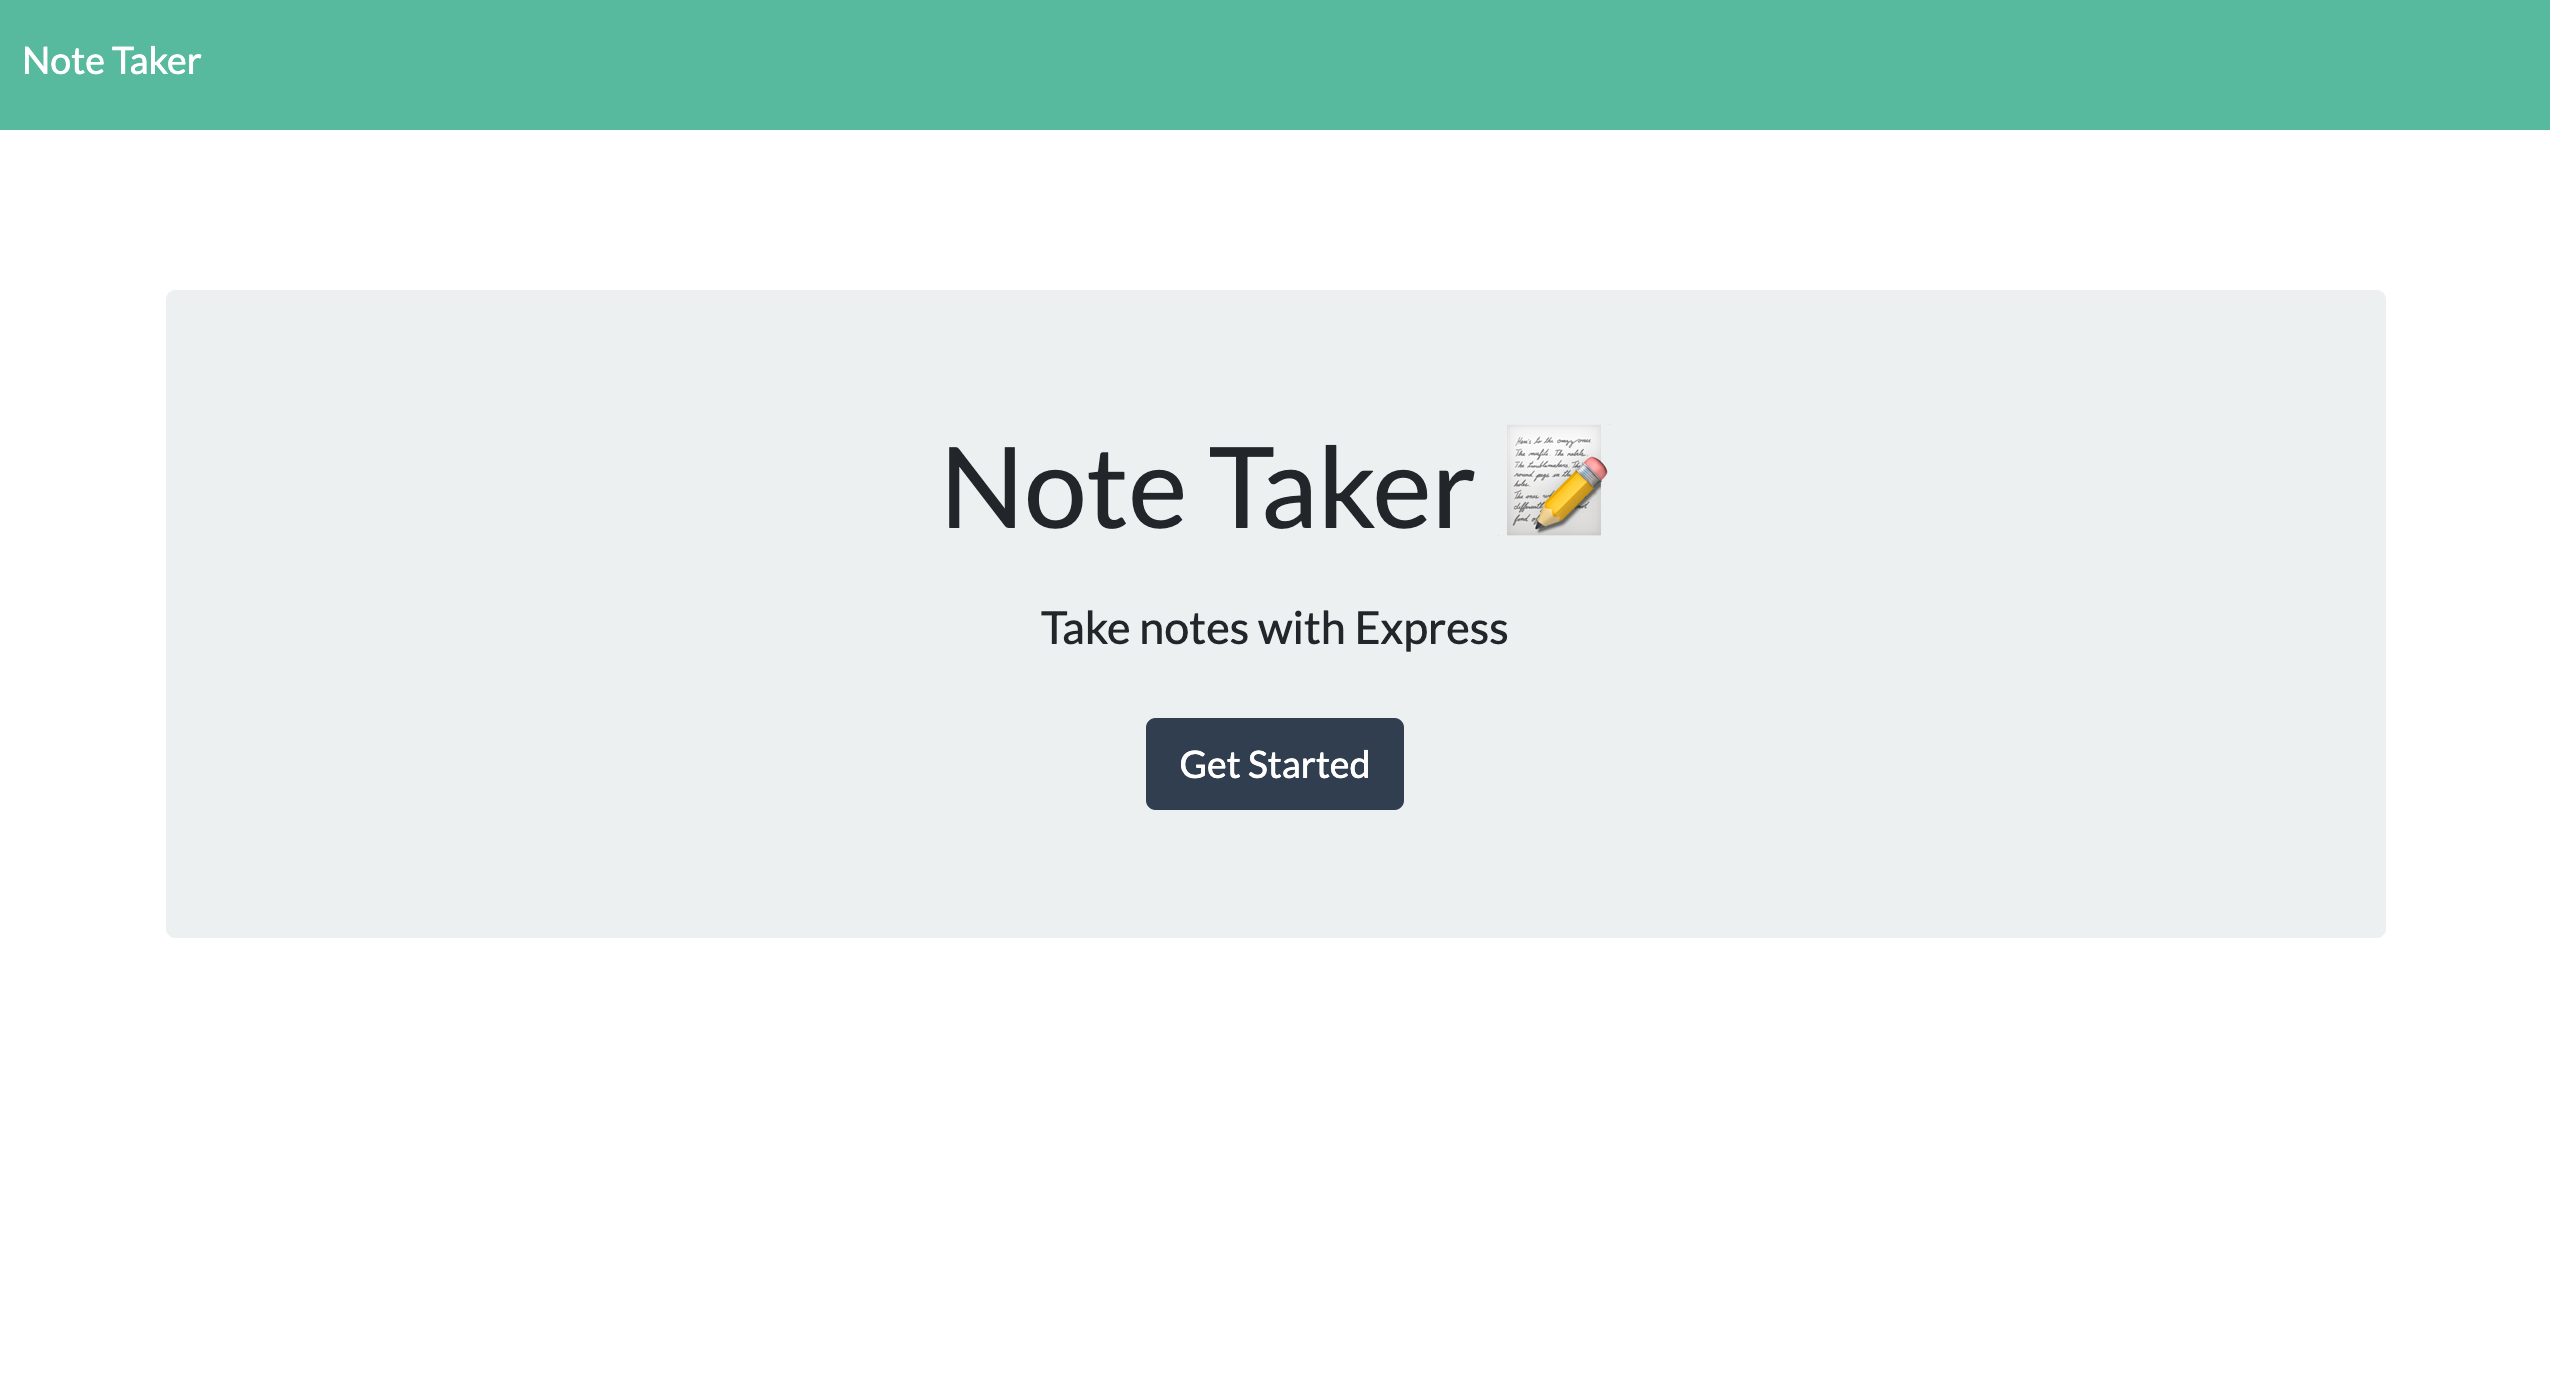
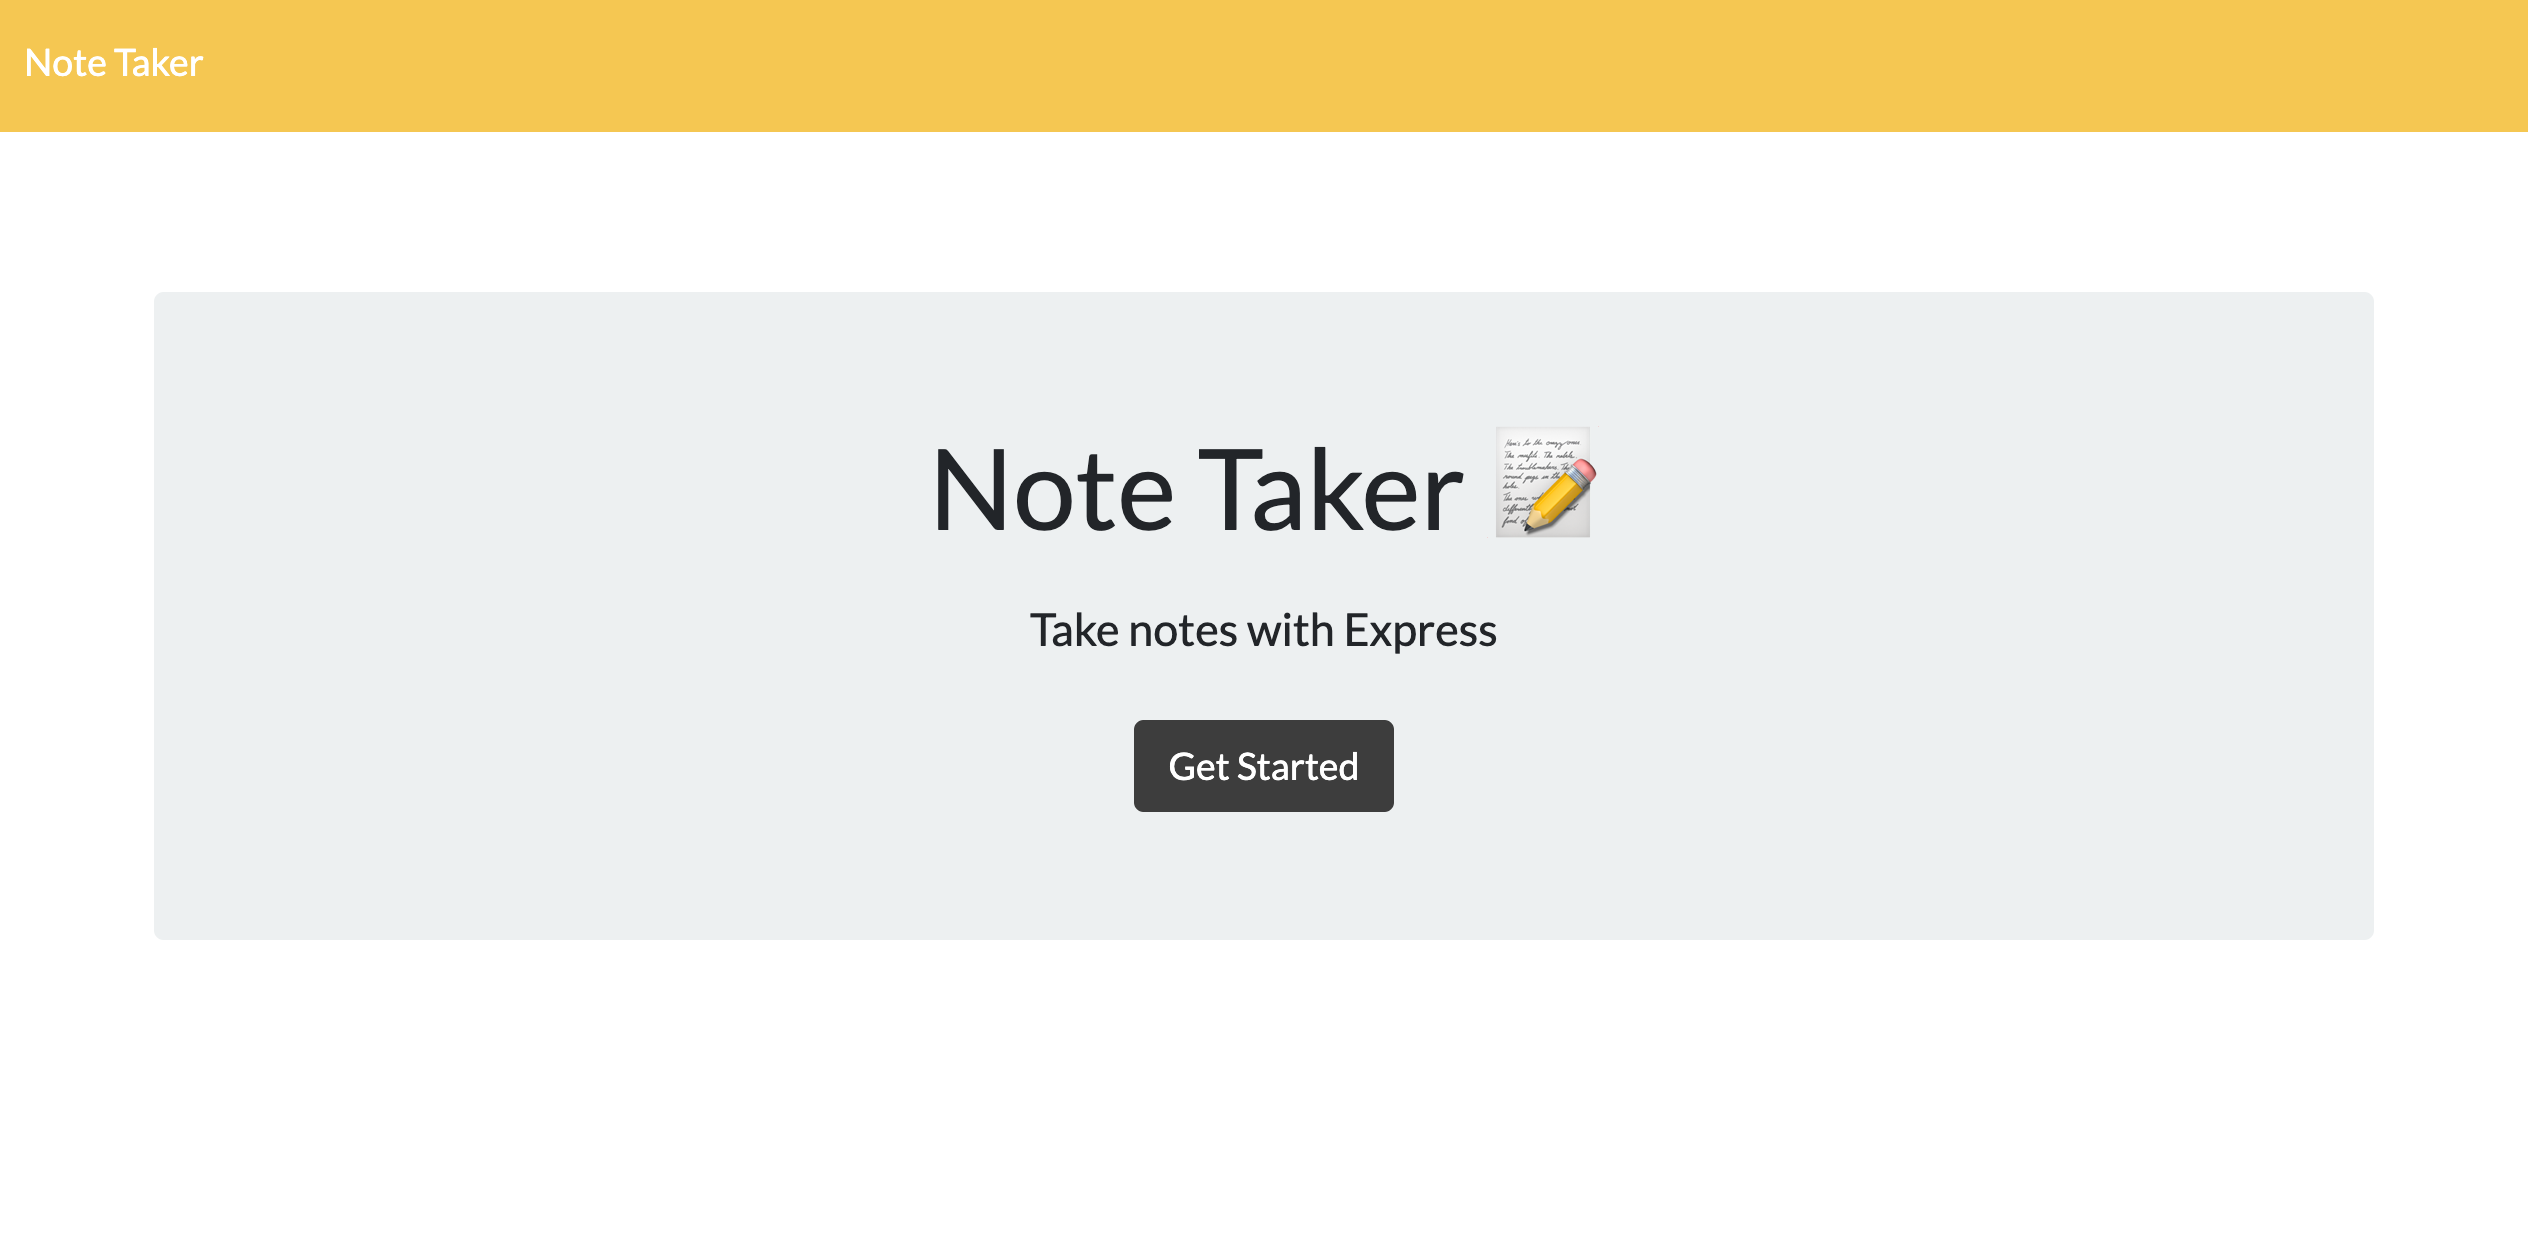
changed colors and emptied json array

Changed region(s): [[0.0, 0.0, 1.0, 0.1228], [0.3438, 0.3069, 0.6562, 0.4604], [0.4062, 0.4911, 0.5938, 0.6753]]

diff --git a/public/index.html b/public/index.html
@@ -10,7 +10,7 @@
 </head>
 
 <body>
-  <nav class="navbar navbar-dark bg-dark">
+  <nav class="navbar navbar-dark" style="background-color: #fdc62f;">
     <a class="navbar-brand" href="/">Note Taker
     </a>
   </nav>
@@ -18,7 +18,7 @@
     <div style="margin-top: 80px;" class="jumbotron text-center">
       <h1 class="display-4">Note Taker <span role="img" aria-label="Memo">📝</span></h1>
       <h4 class="mt-4">Take notes with Express</h4>
-      <a class="btn btn-primary btn-lg mt-4" href="/notes" role="button">Get Started</a>
+      <a class="btn btn-lg mt-4" style="background-color: #3d3d3d; color: #fff" href="/notes" role="button">Get Started</a>
     </div>
   </div>
   <script src="https://cdnjs.cloudflare.com/ajax/libs/jquery/3.3.1/jquery.min.js"></script>

diff --git a/public/assets/css/styles.css b/public/assets/css/styles.css
@@ -35,7 +35,7 @@ html, body {
 }
 
 .note-title:read-only, .note-textarea:read-only {
-  color: #757575;
+  color: #252525;
 }
 
 .list-container .card {
@@ -43,6 +43,7 @@ html, body {
   border-bottom: none;
   border-bottom-right-radius: 0;
   border-bottom-left-radius: 0;
+  color: #252525;
 }
 
 .list-container {

diff --git a/public/notes.html b/public/notes.html
@@ -13,7 +13,7 @@
 </head>
 
 <body>
-  <nav class="navbar navbar-dark bg-dark">
+  <nav class="navbar navbar-dark" style="background-color: #fdc62f;">
     <a class="navbar-brand" href="/">Note Taker
     </a>
     <div class="icons">
